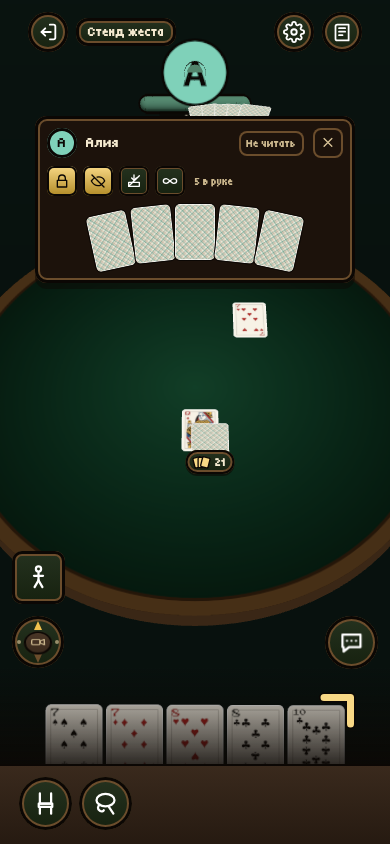
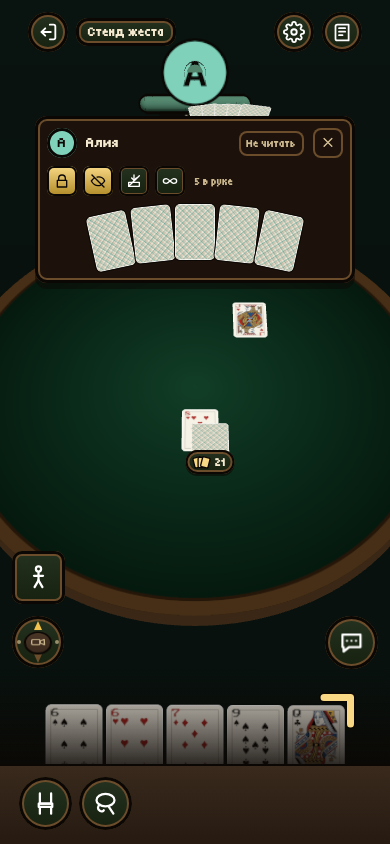
Песочница 3D: окно стопки держится одним из трёх способов (переключатель в заголовке, помнит устройство): «экран» — размер по экрану, у стопки; «к стопке» — прибито к ней, едет за ней и меняет размер вместе с ней (масштаб от ширины её карты на экране; прицел несомой карты — через тот же масштаб); «н

diff --git a/table3d/src/hud.ts b/table3d/src/hud.ts
@@ -333,38 +333,77 @@ export function mountHud(root: HTMLElement, stage: HTMLElement, store: TableStor
    * перемешать, отсортировать, перевернуть; пин, лок, приёмка, склейка и вечность — значками (что нельзя — погашено).
    */
   /** Где окно стопки и его веер: одно на рисование и на прицел несомой карты. `n` — сколько мест в веере. */
+  /**
+   * ГДЕ ОКНО СТОПКИ И ЕГО ВЕЕР — одно на рисование и на прицел несомой карты. Три способа (`tipMode`, помнит устройство):
+   *   screen  — размер по экрану, место — у стопки (прижато к краям кадра);
+   *   element — прибито к стопке: под ней и её размера — ближе камера, крупнее окно (масштаб `k` от ширины её карты);
+   *   pinned  — там, где открылось (или куда его перенесли за заголовок), и не двигается с камерой.
+   * Всё внутри считается без масштаба; `k` и точка `o` переводят в экран: экран = o + (точка − o)·k.
+   */
   function tipLayout(s: Snapshot) {
     const pile = s.piles.find((p) => p.id === local.deckTip), spot = scene.pileSpots().find((p) => p.pile === local.deckTip);
     if (!pile || !spot) return null;
-    const g = glass(), w = Math.min(g.w - 24, 340), left = Math.round(Math.max(12, Math.min(g.w - w - 12, spot.x - w / 2)));
+    const g = glass(), w = Math.min(g.w - 24, 340);
     const cw = 44, room = w - 24 - cw, drop = fanDrop(pile.cards.length + 1, cw, room), h = 12 + 38 + 30 + cw * 1.4 + drop + 16;
-    const top = Math.round(Math.min(g.h - h - 8, spot.y + 36)), rowTop = top + 12 + 38 + 30, mid = left + w / 2;
+    let left: number, top: number, k = 1, o = { x: 0, y: 0 };
+    if (tipMode === "element") {
+      k = Math.max(0.35, Math.min(2.2, spot.cardPx / cw));
+      o = { x: spot.x, y: spot.y };
+      left = Math.round(spot.x - w / 2);
+      top = Math.round(spot.y + 36);
+    } else if (tipMode === "pinned") {
+      const at = tipAt(pile.id) ?? { left: Math.round(Math.max(12, Math.min(g.w - w - 12, spot.x - w / 2))), top: Math.round(Math.min(g.h - h - 8, spot.y + 36)) };
+      if (!tipAt(pile.id)) saveTipAt(pile.id, at);
+      left = at.left;
+      top = at.top;
+    } else {
+      left = Math.round(Math.max(12, Math.min(g.w - w - 12, spot.x - w / 2)));
+      top = Math.round(Math.min(g.h - h - 8, spot.y + 36));
+    }
+    const rowTop = top + 12 + 38 + 30, mid = left + w / 2;
     const slots = (n: number) => handPlan({ fan: true, shrink: false, tuck: false }, n, 1, 1.4, room / cw).map((p) => ({ x: mid + p.x * cw, y: rowTop + p.y * cw + (cw * 1.4) / 2, angle: p.angle }));
-    return { pile, left, top, w, h, cw, room, rowTop, mid, slots };
+    const toScreen = (q: { x: number; y: number }) => ({ x: o.x + (q.x - o.x) * k, y: o.y + (q.y - o.y) * k });
+    const fromScreen = (q: { x: number; y: number }) => ({ x: o.x + (q.x - o.x) / k, y: o.y + (q.y - o.y) / k });
+    return { pile, left, top, w, h, cw, room, rowTop, mid, slots, k, o, toScreen, fromScreen };
   }
+  const TIP_MODES = ["screen", "element", "pinned"] as const;
+  type TipMode = (typeof TIP_MODES)[number];
+  const TIP_MODE_WORDS: Record<TipMode, string> = { screen: "экран", element: "к стопке", pinned: "на месте" };
+  const readStored = <T,>(key: string, or: T): T => { try { const v = localStorage.getItem(key); return v === null ? or : (JSON.parse(v) as T); } catch { return or; } };
+  const writeStored = (key: string, v: unknown) => { try { localStorage.setItem(key, JSON.stringify(v)); } catch { /* нет хранилища — живёт, пока открыта вкладка */ } };
+  let tipMode: TipMode = TIP_MODES.includes(readStored<TipMode>("table3d.tipMode", "screen")) ? readStored<TipMode>("table3d.tipMode", "screen") : "screen";
+  const tipAts: Record<string, { left: number; top: number }> = readStored("table3d.tipAt", {});
+  const tipAt = (pile: string) => tipAts[pile] ?? null;
+  const saveTipAt = (pile: string, at: { left: number; top: number } | null) => { if (at) tipAts[pile] = at; else delete tipAts[pile]; writeStored("table3d.tipAt", tipAts); };
   // ОКНО СТОПКИ — ЗОНА ДЛЯ НЕСОМОЙ КАРТЫ: палец над окном — карта встаёт в щель веера и ляжет в стопку на это место.
   scene.setZone((x, y) => {
     const L = tipLayout(store.state);
-    if (!L || L.pile.lock || L.pile.shut || x < L.left || x > L.left + L.w || y < L.top || y > L.top + L.h) return null;
-    const i = L.slots(L.pile.cards.length).filter((sl) => sl.x < x).length, sl = L.slots(L.pile.cards.length + 1)[i]!;
-    return { where: { in: "deck", pile: L.pile.id, i }, spot: { x: sl.x, y: sl.y - L.cw * 0.35, w: L.cw, angle: sl.angle } };
+    if (!L) return null;
+    const q = L.fromScreen({ x, y });
+    if (L.pile.lock || L.pile.shut || q.x < L.left || q.x > L.left + L.w || q.y < L.top || q.y > L.top + L.h) return null;
+    const i = L.slots(L.pile.cards.length).filter((sl) => sl.x < q.x).length, sl = L.slots(L.pile.cards.length + 1)[i]!;
+    const on = L.toScreen({ x: sl.x, y: sl.y - L.cw * 0.35 });
+    return { where: { in: "deck", pile: L.pile.id, i }, spot: { x: on.x, y: on.y, w: L.cw * L.k, angle: sl.angle } };
   });
   function deckTipHtml(s: Snapshot): string {
     const L = tipLayout(s);
     if (!L) { local.deckTip = null; return ""; }
-    const { pile, left, w, h, top, cw, room } = L;
+    const { pile, left, w, h, top, cw, room, k, o } = L;
     const zone = scene.heldZone();
     const gapAt = zone && zone.pile === pile.id ? zone.i : null;
     // Несомая над окном — сама карта в щели, выше соседей, поверх окна.
     const held = zone && zone.pile === pile.id ? (() => {
       const all = [...s.felt, ...s.piles.flatMap((p) => p.cards), ...s.chairs.flatMap((c) => c.hand)], c = all.find((x) => x.id === zone.id);
-      const face = c && (s.chairs.some((ch) => ch.hand.includes(c)) ? c.face : c.up ? c.face : undefined), hw = cw * 1.15;
-      return `<div data-g="tip-held" data-card="${zone.id}" style="position:absolute;left:${Math.round(zone.spot.x - hw / 2)}px;top:${Math.round(zone.spot.y - (hw * 1.4) / 2)}px;width:${Math.round(hw)}px;height:${Math.round(hw * 1.4)}px;transform:rotate(${zone.spot.angle}deg);z-index:90;pointer-events:none;filter:drop-shadow(0 6px 0 rgba(11,7,4,.45))">${cardImg(s, face, hw)}</div>`;
+      const face = c && (s.chairs.some((ch) => ch.hand.includes(c)) ? c.face : c.up ? c.face : undefined), hw = cw * 1.15, at = L.fromScreen(zone.spot);
+      return `<div data-g="tip-held" data-card="${zone.id}" style="position:absolute;left:${Math.round(at.x - hw / 2)}px;top:${Math.round(at.y - (hw * 1.4) / 2)}px;width:${Math.round(hw)}px;height:${Math.round(hw * 1.4)}px;transform:rotate(${zone.spot.angle}deg);z-index:90;pointer-events:none;filter:drop-shadow(0 6px 0 rgba(11,7,4,.45))">${cardImg(s, face, hw)}</div>`;
     })() : "";
     const admin = s.rights.includes("pile.guard"), topId = pile.cards.at(-1)?.id;
     const acts: [string, string, string][] = [["shuffle", GLYPH.shuffle, "Перемешать"], ["sort", GLYPH.suit, "Отсортировать"], ["flip", GLYPH.reverse, "Перевернуть"]];
-    return `<div data-g="deck-tip" data-pile="${pile.id}" data-lock="${pile.lock}" style="position:absolute;left:${left}px;top:${top}px;width:${w}px;height:${h}px;box-sizing:border-box;z-index:40;background:${T.well};box-shadow:inset 0 0 0 3px ${T.black},inset 0 0 0 5px ${T.wood},0 6px 0 rgba(11,7,4,.5);border-radius:12px;padding:12px">`
-      + `<div style="display:flex;align-items:center;gap:9px;height:30px;padding-bottom:8px"><span style="font:400 14px Tiny5,monospace;color:${T.ink};flex:1">${esc(pile.name ?? "Колода")} · ${pile.cards.length}</span>`
+    // Всё окно — в одной обёртке с масштабом (у «к стопке» он от размера стопки на экране, у прочих — 1).
+    return `<div data-g="deck-tip-frame" data-mode="${tipMode}" data-k="${k.toFixed(3)}" style="position:absolute;left:0;top:0;width:0;height:0;transform-origin:${o.x}px ${o.y}px;transform:scale(${k.toFixed(4)});z-index:40">`
+      + `<div data-g="deck-tip" data-pile="${pile.id}" data-lock="${pile.lock}" style="position:absolute;left:${left}px;top:${top}px;width:${w}px;height:${h}px;box-sizing:border-box;z-index:40;background:${T.well};box-shadow:inset 0 0 0 3px ${T.black},inset 0 0 0 5px ${T.wood},0 6px 0 rgba(11,7,4,.5);border-radius:12px;padding:12px">`
+      + `<div style="display:flex;align-items:center;gap:9px;height:30px;padding-bottom:8px"><span data-tip-drag style="font:400 14px Tiny5,monospace;color:${T.ink};flex:1;align-self:stretch;display:flex;align-items:center;touch-action:none;cursor:${tipMode === "pinned" ? "move" : "default"}">${esc(pile.name ?? "Колода")} · ${pile.cards.length}</span>`
+      + `<span data-tip-mode role="button" title="Как держится окно: по экрану, прибито к стопке или на месте (переносится за заголовок)" style="cursor:pointer;font:400 11px Tiny5,monospace;border-radius:8px;padding:6px 8px;box-shadow:inset 0 0 0 2px ${T.wood};color:${T.gold}">${TIP_MODE_WORDS[tipMode]}</span>`
       + `<span data-deck-shut role="button" style="cursor:pointer;font:400 11px Tiny5,monospace;border-radius:8px;padding:6px 10px;box-shadow:inset 0 0 0 2px ${T.wood};color:${T.inkDim}">Закрыть</span></div>`
       + `<div style="display:flex;align-items:center;gap:4px;height:26px">`
       + acts.map(([how, glyph, label]) => deckChip(`data-deck-do="${how}"`, glyph, label, false, !pile.lock)).join("")
@@ -375,7 +414,7 @@ export function mountHud(root: HTMLElement, stage: HTMLElement, store: TableStor
       + deckChip("data-deck-seal", GLYPH.seal, "Мерж закрыт", pile.seal, admin)
       + deckChip("data-deck-forever", GLYPH.forever, "Вечная", pile.forever) + `</div></div>`
       + fanHtml(s, pile.cards, (c) => (c.up ? c.face : undefined), left + w / 2, top + 12 + 38 + 30, cw, room, 42, (c) => `data-from="pile" data-take="${pile.shut || (pile.lock && c.id !== topId) ? "0" : "1"}"`, gapAt)
-      + held;
+      + held + `</div>`;
   }
   /** Окно стула по тапу на голову: кто, флаги (свой — кнопками), «не читать»; у крупье — его дела. */
   function tipHtml(s: Snapshot): string {
@@ -506,6 +545,12 @@ export function mountHud(root: HTMLElement, stage: HTMLElement, store: TableStor
     else if (q("[data-journal]")) local.journal = !local.journal;
     else if ((b = q("[data-deck-do]")) && local.deckTip) store.send({ t: "deckDo", pile: local.deckTip, how: b.dataset.deckDo as "shuffle" | "sort" | "flip" });
     else if (q("[data-deck-shut]")) local.deckTip = null;
+    else if (q("[data-tip-mode]")) {
+      tipMode = TIP_MODES[(TIP_MODES.indexOf(tipMode) + 1) % TIP_MODES.length]!;
+      writeStored("table3d.tipMode", tipMode);
+      // «На месте» — там, где окно стоит сейчас.
+      if (tipMode === "pinned" && local.deckTip) saveTipAt(local.deckTip, null);
+    }
     else if ((b = q("[data-deck-pin]")) && local.deckTip) { const p = s.piles.find((x) => x.id === local.deckTip); if (p) store.send({ t: "deckPin", pile: p.id, on: !p.pin }); }
     else if ((b = q("[data-deck-forever]")) && local.deckTip) { const p = s.piles.find((x) => x.id === local.deckTip); if (p) store.send({ t: "deckForever", pile: p.id, on: !p.forever }); }
     else if ((b = q("[data-deck-lock], [data-deck-accept], [data-deck-seal]")) && local.deckTip) {
@@ -614,6 +659,15 @@ export function mountHud(root: HTMLElement, stage: HTMLElement, store: TableStor
         scene.carryPile(pile, null);
         draw();
       });
+      return;
+    }
+    // «На месте» — окно переносят за заголовок; место запоминается.
+    const head = t.closest<HTMLElement>("[data-tip-drag]");
+    if (head && tipMode === "pinned" && local.deckTip) {
+      e.preventDefault();
+      const pile = local.deckTip, from = tipAt(pile);
+      if (!from) return;
+      follow(e, (ev) => { saveTipAt(pile, { left: Math.round(from.left + ev.clientX - e.clientX), top: Math.round(from.top + ev.clientY - e.clientY) }); draw(); }, () => draw());
       return;
     }
     // Карта из окна (стопки, стула) — её несут, как со стола.

diff --git a/table3d/src/scene.ts b/table3d/src/scene.ts
@@ -107,7 +107,7 @@ export interface SceneApi {
   heads(): { key: string; x: number; y: number; r: number; ink: string }[];
   pickAt(x: number, y: number): { t: "card"; id: string } | { t: "who"; key: string } | null;
   /** Стопки на экране: где и сколько. */
-  pileSpots(): { pile: string; count: number; x: number; y: number }[];
+  pileSpots(): { pile: string; count: number; x: number; y: number; cardPx: number }[];
   /** Карты, чья середина на экране внутри многоугольника. */
   cardsIn(poly: { x: number; y: number }[]): string[];
   /** Лассо открыто — тап по карте выделяет, выделенные несут вместе; `grab` — как несут. */
@@ -805,7 +805,12 @@ export function mountScene(host: HTMLElement, store: TableStore): SceneApi {
       const id = hitCard(e);
       return id ? { t: "card", id } : null;
     },
-    pileSpots: () => store.state.piles.filter((p) => p.pose !== "ring" && p.cards.length).map((p) => ({ pile: p.id, count: p.cards.length, ...project(new THREE.Vector3(p.x, 0.02 + p.cards.length * PILE_STEP, p.y)) })),
+    pileSpots: () => store.state.piles.filter((p) => p.pose !== "ring" && p.cards.length).map((p) => {
+      const h = 0.02 + p.cards.length * PILE_STEP, c = project(new THREE.Vector3(p.x, h, p.y));
+      // Ширина карты стопки на экране: по ней окно «к стопке» меряет свой размер.
+      const r = camera.matrixWorld.elements, right = new THREE.Vector3(r[0], r[1], r[2]).setLength(CARD_W), e = project(new THREE.Vector3(p.x, h, p.y).add(right));
+      return { pile: p.id, count: p.cards.length, ...c, cardPx: Math.hypot(e.x - c.x, e.y - c.y) };
+    }),
     cardsIn(poly) {
       const inside = (q: { x: number; y: number }) => { let c = false; for (let i = 0, j = poly.length - 1; i < poly.length; j = i++) { const a = poly[i]!, b = poly[j]!; if (a.y > q.y !== b.y > q.y && q.x < ((b.x - a.x) * (q.y - a.y)) / (b.y - a.y) + a.x) c = !c; } return c; };
       return store.state.felt.filter((f) => { const q = screenOf(f.id); return q && inside(q); }).map((f) => f.id);
